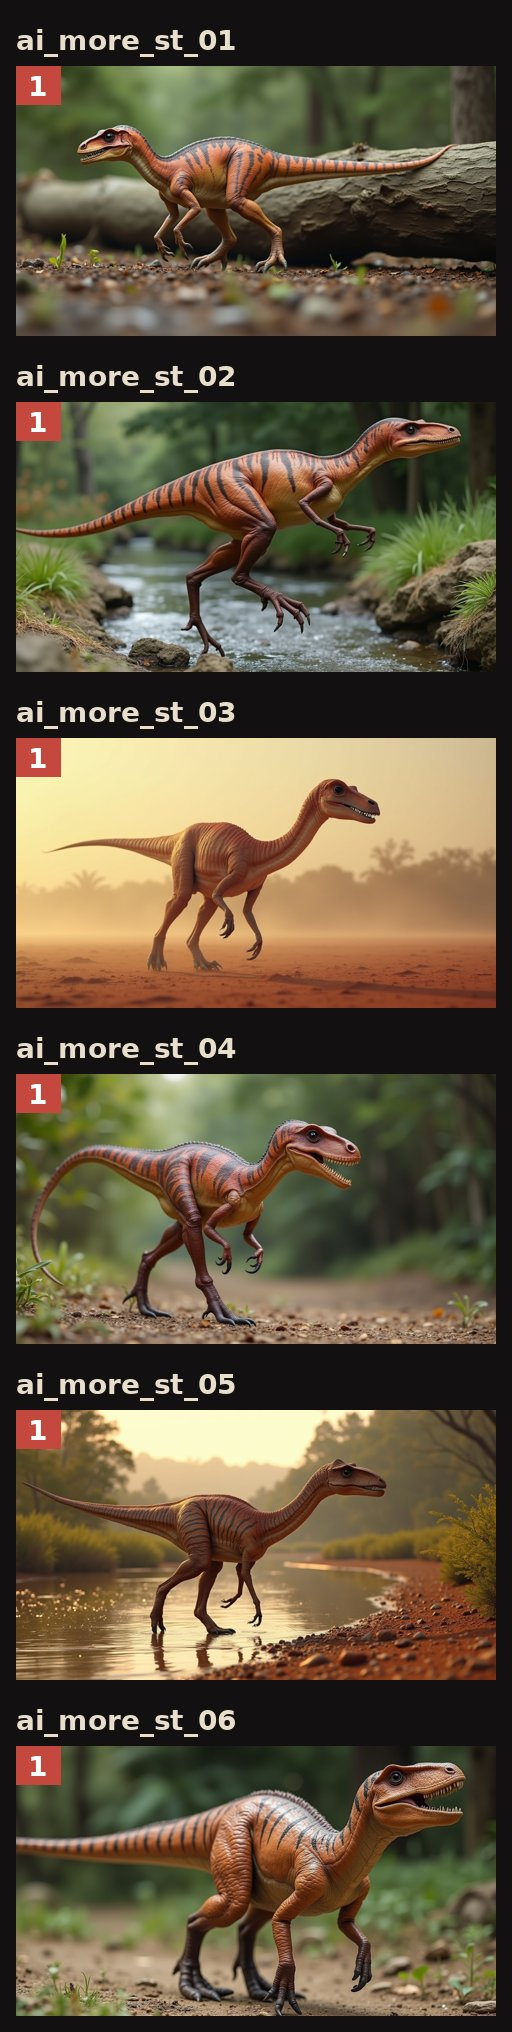
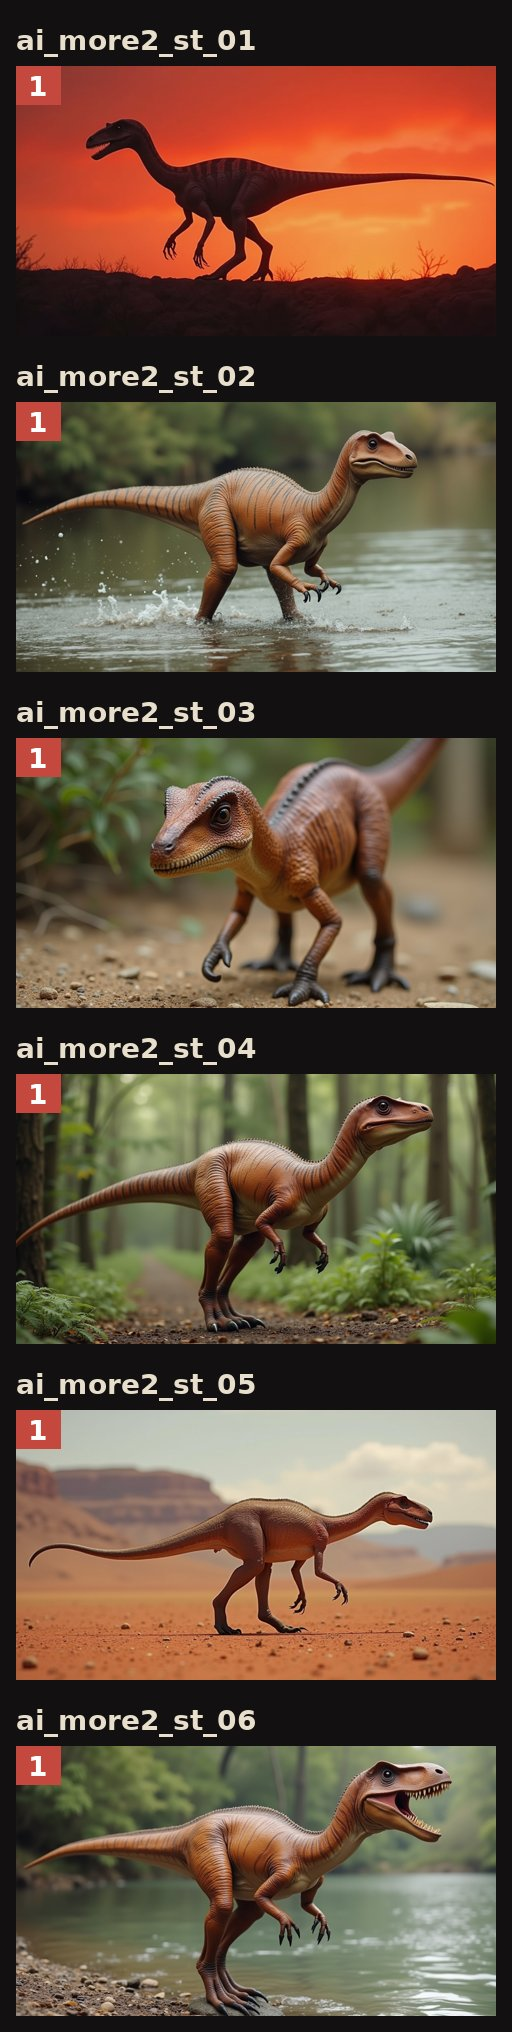
Imagens IA: fe04-primeiro-dinossauro-brasil

diff --git a/fe04-primeiro-dinossauro-brasil/ai_report.md b/fe04-primeiro-dinossauro-brasil/ai_report.md
@@ -1,47 +1,21 @@
 # Imagens IA — fe04-primeiro-dinossauro-brasil
 
 - Modelo: `gemini-2.5-flash-image`
-- Imagens geradas: 39
-- Folhas: ai_contact_sheet_1.jpg, ai_contact_sheet_2.jpg, ai_contact_sheet_3.jpg, ai_contact_sheet_4.jpg, ai_contact_sheet_5.jpg, ai_contact_sheet_6.jpg, ai_contact_sheet_7.jpg
+- Imagens geradas: 13
+- Folhas: ai_contact_sheet_1.jpg, ai_contact_sheet_2.jpg, ai_contact_sheet_3.jpg
 
 | plano | resultado |
 |---|---|
-| `ai_more_st_01` | 1 de 1 |
-| `ai_more_st_02` | 1 de 1 |
-| `ai_more_st_03` | 1 de 1 |
-| `ai_more_st_04` | 1 de 1 |
-| `ai_more_st_05` | 1 de 1 |
-| `ai_more_st_06` | 1 de 1 |
-| `ai_more_st_07` | 1 de 1 |
-| `ai_more_st_08` | 1 de 1 |
-| `ai_more_st_09` | 1 de 1 |
-| `ai_more_st_10` | 1 de 1 |
-| `ai_more_ma_01` | 1 de 1 |
-| `ai_more_ma_02` | 1 de 1 |
-| `ai_more_ma_03` | 1 de 1 |
-| `ai_more_ma_04` | 1 de 1 |
-| `ai_more_ma_05` | 1 de 1 |
-| `ai_more_bu_01` | 1 de 1 |
-| `ai_more_bu_02` | 1 de 1 |
-| `ai_more_bu_03` | 1 de 1 |
-| `ai_more_bu_04` | 1 de 1 |
-| `ai_more_bu_05` | 1 de 1 |
-| `ai_more_gn_01` | 1 de 1 |
-| `ai_more_gn_02` | 1 de 1 |
-| `ai_more_gn_03` | 1 de 1 |
-| `ai_more_gn_04` | 1 de 1 |
-| `ai_more_gn_05` | 1 de 1 |
-| `ai_more_sa_01` | 1 de 1 |
-| `ai_more_sa_02` | 1 de 1 |
-| `ai_more_sa_03` | 1 de 1 |
-| `ai_more_sa_04` | 1 de 1 |
-| `ai_more_rs_01` | 1 de 1 |
-| `ai_more_rs_02` | 1 de 1 |
-| `ai_more_rs_03` | 1 de 1 |
-| `ai_more_rs_04` | 1 de 1 |
-| `ai_more_rs_05` | 1 de 1 |
-| `ai_more_rs_06` | 1 de 1 |
-| `ai_more_dig_01` | 1 de 1 |
-| `ai_more_dig_02` | 1 de 1 |
-| `ai_more_dig_03` | 1 de 1 |
-| `ai_more_dig_04` | 1 de 1 |
+| `ai_more2_st_01` | 1 de 1 |
+| `ai_more2_st_02` | 1 de 1 |
+| `ai_more2_st_03` | 1 de 1 |
+| `ai_more2_st_04` | 1 de 1 |
+| `ai_more2_st_05` | 1 de 1 |
+| `ai_more2_st_06` | 1 de 1 |
+| `ai_more2_st_07` | 1 de 1 |
+| `ai_more2_st_08` | 1 de 1 |
+| `ai_more2_ma_01` | 1 de 1 |
+| `ai_more2_ma_02` | 1 de 1 |
+| `ai_more2_gn_01` | 1 de 1 |
+| `ai_more2_gn_02` | 1 de 1 |
+| `ai_more2_bu_01` | 1 de 1 |
